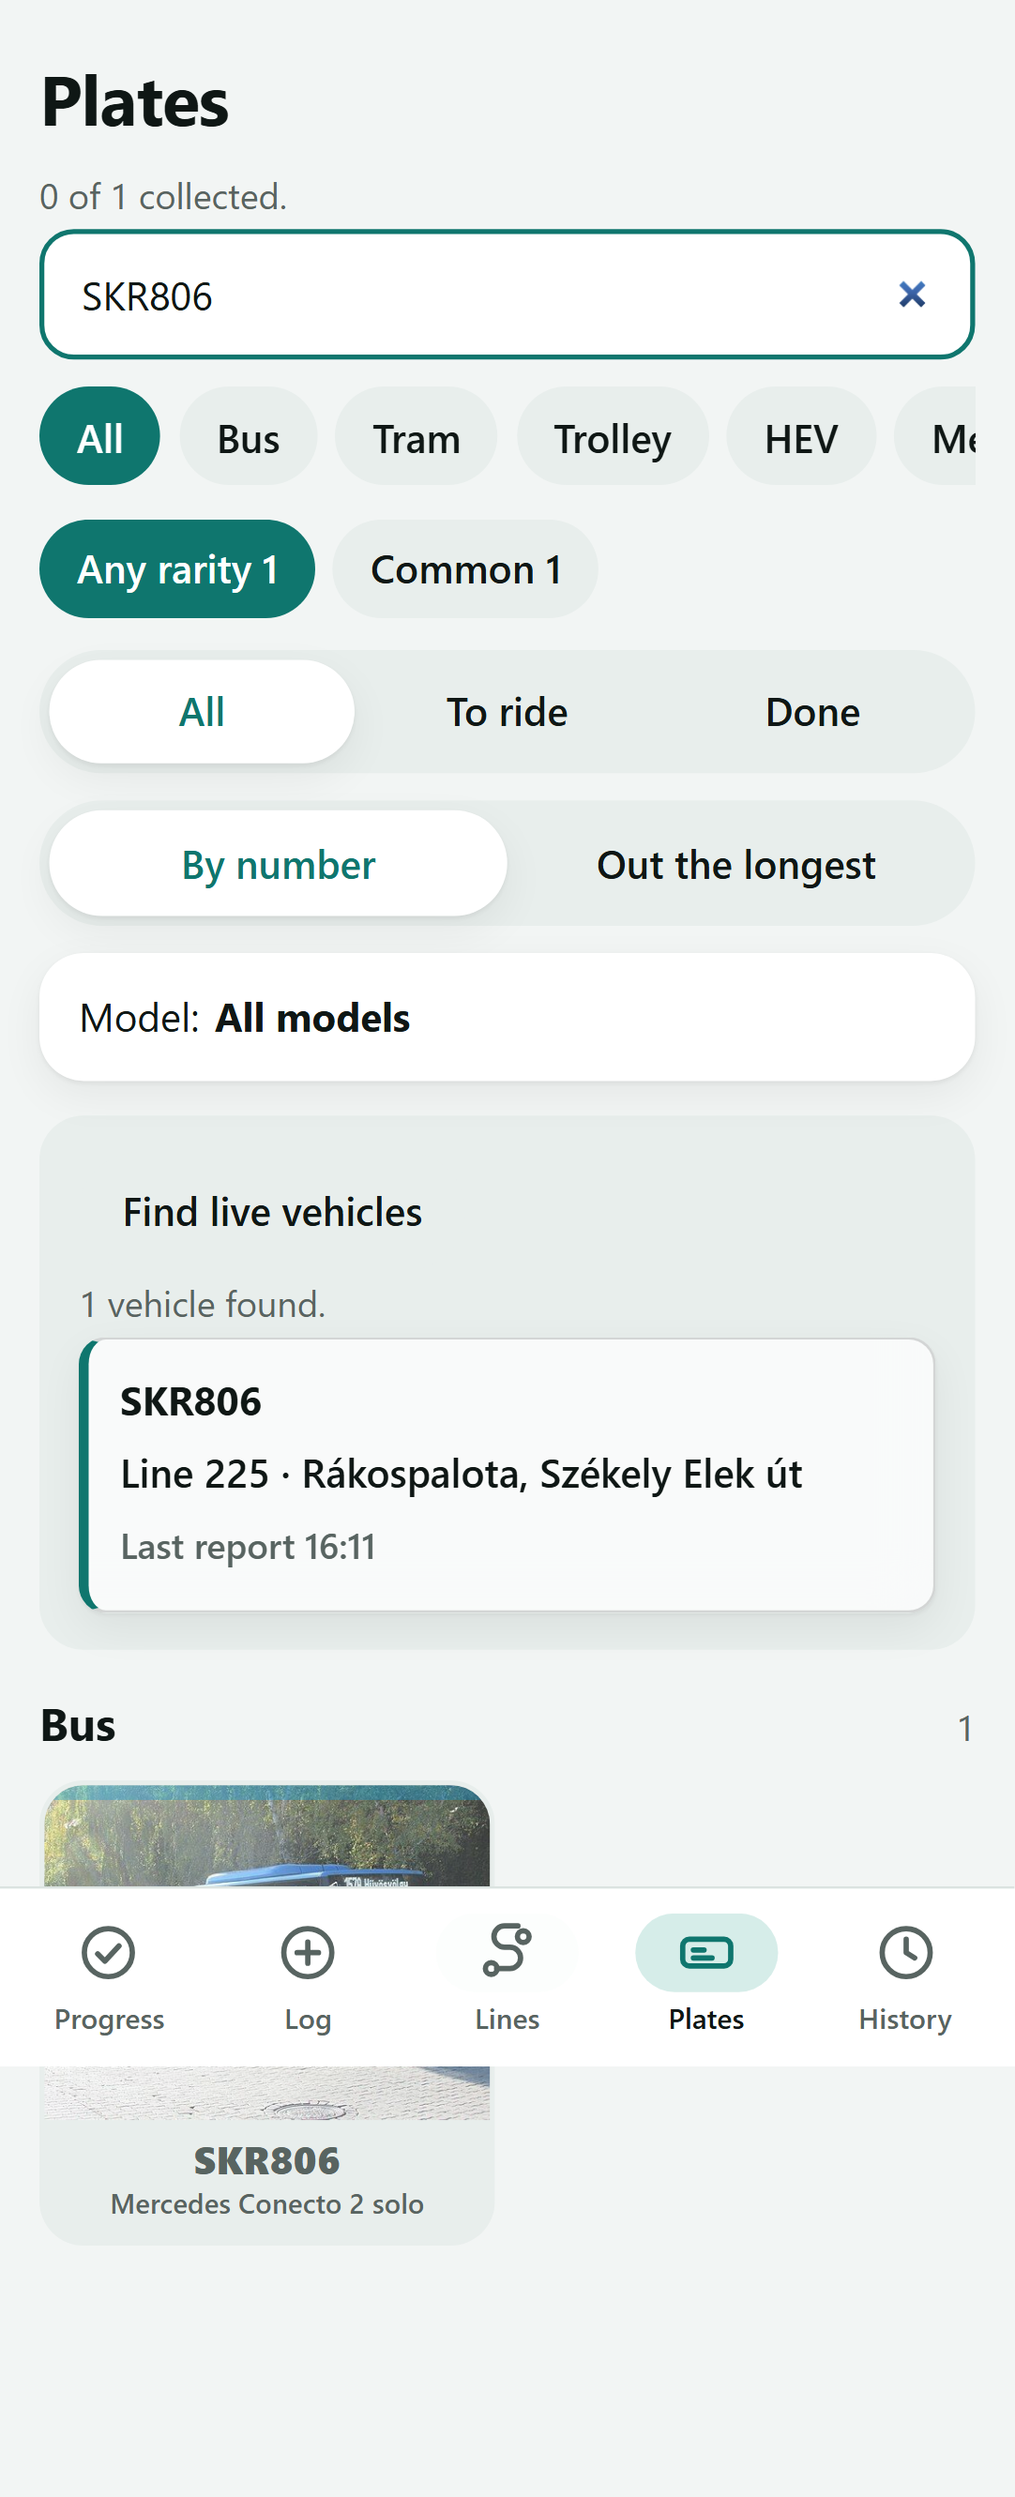
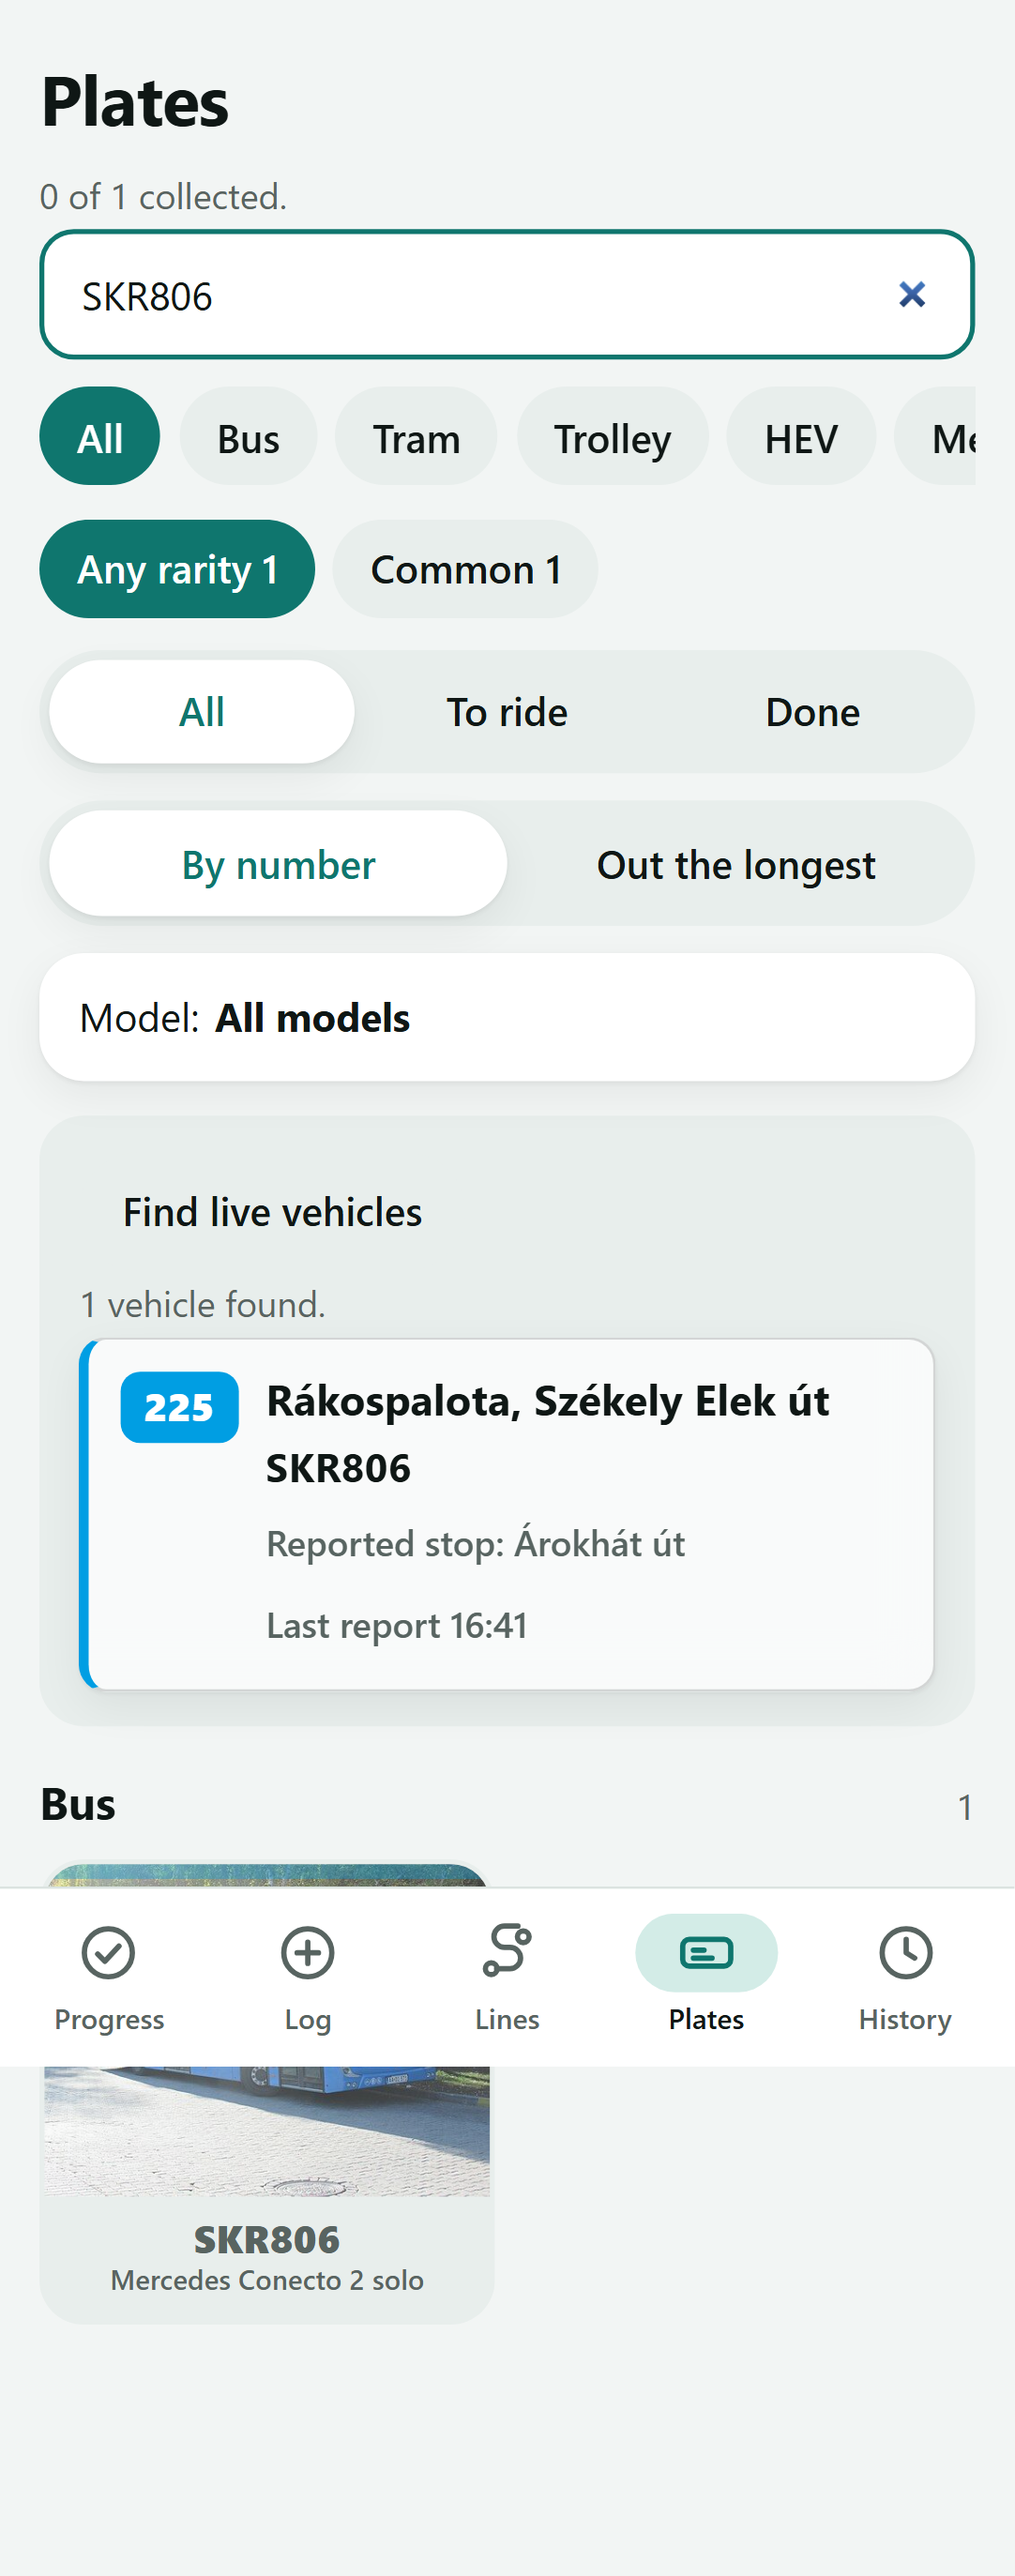
Move live vehicle lookup into line details and reuse boarding cards

diff --git a/js/nearby.js b/js/nearby.js
@@ -443,6 +443,7 @@ $("detail").addEventListener("close", () => {
   if (liveOpener) { const target = liveOpener; liveOpener = null; (target.isConnected ? target : document.querySelector('#tabs [aria-current="page"]')).focus(); }
 });
 function openLiveVehicle(v, opener) {
+  const previous = $("detail").open ? {title:$("detail-title").textContent, nodes:[...$("detail-body").childNodes]} : null;
   nb.open = null; liveOpener = opener;
   $("detail-title").textContent = `${v.plate}${v.line ? ", line " + v.line : ""}`;
   const body = $("detail-body"), map = el("div", "nb-map"), facts = el("ul", "plain");
@@ -450,7 +451,12 @@ function openLiveVehicle(v, opener) {
     el("li", "", v.positionAtMs ? `Last report ${hhmm(v.positionAtMs)}${v.stale ? ", out of date" : ""}.` : "Report time unavailable."));
   if (v.stop) facts.append(el("li", "", `Reported stop: ${v.stop}`));
   const history = el("a", "", "Vehicle history on WinMenetrend"); history.href = "https://online.winmenetrend.hu/futar/history/vehicles/" + encodeURIComponent(v.plate); history.target = "_blank"; history.rel = "noopener noreferrer";
-  body.replaceChildren(map, facts, history); $("detail").showModal();
+  body.replaceChildren(map, facts, history); if (!$("detail").open) $("detail").showModal();
+  if (previous) {
+    const back = el("button", "", `Back to ${previous.title}`); back.type = "button";
+    back.onclick = () => { body.replaceChildren(...previous.nodes); $("detail-title").textContent = previous.title; liveOpener = null; opener.focus(); };
+    body.prepend(back); back.focus();
+  }
   if (v.lat !== null && v.lon !== null && nbCfg.tiles) createMiniMap(map, [{lat:v.lat,lon:v.lon,kind:"vehicle"}], {tiles:nbCfg.tiles,attribution:nbCfg.attribution,attributionUrl:nbCfg.attributionUrl,onError:()=>map.replaceChildren(el("p","sub","Map tiles did not load. Try again with a connection."))});
   else map.append(el("p", "sub", "Map position unavailable."));
 }
@@ -470,8 +476,12 @@ function makeLiveLookup(query) {
       if (!Array.isArray(result.vehicles)) throw nbErr("format");
       list.replaceChildren(...result.vehicles.map(v => {
         const b = el("button", "nb-row"); b.type = "button";
-        const text = el("span", "nb-main"); text.append(el("strong", "", v.plate), el("span", "", `${v.line ? "Line " + v.line : "Line unavailable"}${v.headsign ? " · " + v.headsign : ""}`), el("span", "sub", v.positionAtMs ? `Last report ${hhmm(v.positionAtMs)}${v.stale ? " · Out of date" : ""}` : "Report time unavailable"));
-        b.append(text); b.onclick = () => openLiveVehicle(v, b); return b;
+        const colors = lineColors(allLines().find(l => l.id === v.line) || {type:v.type});
+        b.style.setProperty("--line-c", "#"+colors[0]);
+        const text = el("span", "nb-main"); text.append(el("strong", "nb-head", v.headsign || "Destination unavailable"), el("span", "nb-plate", v.plate),
+          el("span", "sub", v.stop ? `Reported stop: ${v.stop}` : Number.isFinite(v.lat) && Number.isFinite(v.lon) ? `${v.lat.toFixed(5)}, ${v.lon.toFixed(5)}` : "Position unavailable"),
+          el("span", "sub", v.positionAtMs ? `Last report ${hhmm(v.positionAtMs)}${v.stale ? " · Out of date" : ""}` : "Report time unavailable"));
+        b.append(badge(v.line || "?", colors), text); b.onclick = () => openLiveVehicle(v, b); return b;
       }));
       status.textContent = result.vehicles.length ? `${result.vehicles.length} vehicle${result.vehicles.length===1?"":"s"}${result.kind==="line" ? " on line " + result.query : " found"}.${result.state==="partial" ? " Some results may be missing." : ""}` : "No live vehicle found. It may be out of service or not reporting. This lookup does not include earlier shifts.";
     } catch(e) { if(request===seq) {list.replaceChildren();status.textContent = ["bad-search", "search-too-short"].includes(e.code) ? "Enter a line number or at least three plate characters (letters and numbers)." : `${NB_TEXT[e.code] || "Could not look up vehicles."} Press Find live vehicles to retry.`;} }
@@ -480,7 +490,7 @@ function makeLiveLookup(query) {
   button.onclick = run;
   return {box,run,clear};
 }
-for (const kind of ["lines", "plates"]) {
+for (const kind of ["plates"]) {
   const input = $("q-"+kind), lookup = makeLiveLookup(()=>input.value);
   $("view-"+kind).insertBefore(lookup.box, $("list-"+kind));
   input.addEventListener("input", ()=>{lookup.clear();lookup.box.querySelector("button").removeAttribute("aria-busy");});

diff --git a/js/app.js b/js/app.js
@@ -295,7 +295,7 @@ function collTile(kind, o, state) {
   if (tier) b.append(el("span", "gem"));
   if (kind === "plates" && idleDays(o) >= 3) b.append(el("span", "idle", idleDays(o) + "d"));
   b.setAttribute("aria-label", `${kind === "lines" ? "Line " + o.id : "Plate " + o.plate}, ${tier ? TIER_NAMES[tier].toLowerCase() + ", " : ""}${STATE_TEXT[state]}`);
-  b.onclick = () => showDetail(kind === "lines" ? "line" : "plate", o);
+  b.onclick = () => { b.focus(); showDetail(kind === "lines" ? "line" : "plate", o); };
   return b;
 }
 
@@ -378,13 +378,14 @@ function showDetail(kind, o) {
   } else {
     $("detail-title").textContent = `Line ${o.id}`;
     body.append(badge(o.id, lineColors(o)), el("span", "sub", ` ${TYPES[typeOf(o.type)]}`));
+    section("Vehicles", makeLiveLookup(() => o.id).box);
     const ride = entries.filter((e) => normLine(e.line) === o.id);
     const dd = stopData.lines[o.id], whole = ride.some(rideCoversLine);
     body.append(el("p", "", whole ? "Ridden end to end." : ride.length ? `Ridden ${ride.length} time${ride.length > 1 ? "s" : ""}, but not end to end yet.` : "Not ridden yet."));
     if (!whole && dd) body.append(el("p", "sub", `Ride from ${stopName(dd[0].s[0])} to ${stopName(dd[0].s[dd[0].s.length - 1])}, either way, to complete it.`));
     if (tierOf(o) > 0) body.append(tierBox());
     if (o.fc) {
-      const f = el("div", "factbox"); f.append(el("strong", "", "Did you know"), el("p", "", o.fc));
+      const f = el("div", "factbox"); f.append(el("p", "", o.fc));
       const st = el("div", "facts"); [...(o.ns ? [`${o.ns} stops`, `${o.km} km`, `${o.tp} trips on a weekday`] : []), ...(o.tr || [])].forEach((t) => st.append(el("span", "factchip", t)));
       f.append(st); body.append(f);
     }
@@ -1084,6 +1085,7 @@ $("update-btn").onclick = async () => {
 
 // Tapping outside a sheet closes it.
 document.querySelectorAll("dialog.sheet").forEach((d) => d.addEventListener("click", (e) => {
+  if (e.target !== d) return; // keyboard activation of a control is not a backdrop click
   const r = d.getBoundingClientRect();
   if (e.clientX < r.left || e.clientX > r.right || e.clientY < r.top || e.clientY > r.bottom) d.close();
 }));

diff --git a/sw.js b/sw.js
@@ -1,4 +1,4 @@
-const CACHE = "bkv-challenge-v24";
+const CACHE = "bkv-challenge-v25";
 const ASSETS = ["./", "index.html", "css/app.css", "js/ride-core.js", "js/minimap.js", "js/app.js", "js/nearby.js", "data/catalog.json", "data/stops.json", "data/timetable.json", "data/api.json", "manifest.webmanifest", "icons/icon.svg", "icons/icon-192.png", "icons/icon-512.png"];
 
 self.addEventListener("install", (e) => {

diff --git a/docs/verification/live-search.md b/docs/verification/live-search.md
@@ -1,5 +1,13 @@
 # Live line and plate search, 2026-11-16
 
+## Line-detail correction
+
+Owner requested Find live vehicles inside the selected line, using the boarding style. Moved the Lines-page lookup into showDetail's Vehicles section, kept the separate Plates lookup, and reused the existing Nearby row layout, BKK mode colors and badge. Each card includes destination, plate, reported stop (coordinates when stop is absent) and report time. The vehicle map can return to the retained line content without a new request, restoring focus to its card. Native modal closing returns to the originating line tile on all four engines; keyboard control clicks no longer get mistaken for backdrop clicks. Removed the decorative Did you know label encountered in this same line detail.
+
+Checked BKK's official FUTAR page and inspected its photo: https://bkk.hu/fejlesztesek/osszes-fejlesztesunk/a-futar-forgalomiranyitasi-rendszer-kozteruleti-kijelzok-esmobilalkalmazas.8115/ and https://bkk.hu/static/content/2022/06/cms-dsc_7035.jpg. The implementation preserves the app's selected boarding-card composition; it does not claim to reproduce the photographed street LED board. Registration strings remain provider identifiers, unchanged.
+
+Updated live-search.cjs passed all four emulated profiles: opening line 225, explicit lookup, card layout, map, Back without another request, focus restoration through Back and Escape, Plates lookup, failure and empty results. Also reran the four-profile likely-plate boarding regression and 15 Node tests. New *-line.png captures record line-detail placement; updated map and results captures record the corrected flow. Service-worker cache v25; backend unchanged. Physical devices remain untested.
+
 Problem: catalog search filters line IDs or plates only, with additional mode/model/rarity/completion filters. Searching 225 in Plates cannot find vehicles by their active line. Previous vehicle status scraped WinMenetrend in native Android only and did not supply coordinates or direction in browsers.
 
 Implemented an explicit Find live vehicles action on both existing search screens. Enter submits too. Known line numbers resolve via the existing route index; other input queries plates (minimum three plate characters). Catalog filters remain independent. Catalog empty copy now identifies a filter mismatch. Plate details reuse the same lookup; the external vehicle-history link remains available. Live result details show line, destination, last report time, reported stop when supplied, and the existing map component for observed positions. This is a current-report lookup, not a complete historical shift roster; earlier history is linked externally.

diff --git a/README.md b/README.md
@@ -16,7 +16,7 @@ A line counts once ridden end to end. A plate counts once one ride of at least 1
 
 ## Nearby arrivals and the ride timer
 
-In Lines or Plates, enter a line number or plate and press **Find live vehicles** (or Enter). Line numbers return currently reported vehicles; plates return matching vehicles with line, destination and last report time. Open a result for the reported position and a link to WinMenetrend vehicle history. Lookup runs only on request, shares a 20-second server cache, and returns at most 100 matches. It covers the Budapest operating area and does not provide a complete earlier-shift roster. The typed line/plate query is sent to the backend and BKK; opening the history link sends that plate to WinMenetrend.
+In Lines, open a line (for example 225) and press **Find live vehicles** in its Vehicles section. In Plates, enter a line number or plate and press **Find live vehicles** (or Enter). Results use the Nearby boarding-card layout: line badge, destination, plate, reported stop and last report time. Open a result for its reported map position and a WinMenetrend history link; Back returns to the line's results without another lookup. Lookup runs only on request, shares a 20-second server cache, and returns at most 100 matches. It covers the Budapest operating area and does not provide a complete earlier-shift roster. The line/plate query is sent to the backend and BKK; opening the history link sends that plate to WinMenetrend.
 
 Nearby also asks BKK for vehicles linked through their duty. If the linked vehicle is still on another trip, its card says **Likely [plate]**. Open the card to board with a blank plate, or explicitly confirm the suggested plate and board after checking the vehicle. Likely plates have no New/Completed badge or vehicle-position marker. Stale, undated and conflicting-date associations remain unknown. Historical ride matching does not request duty-linked vehicles.
 
